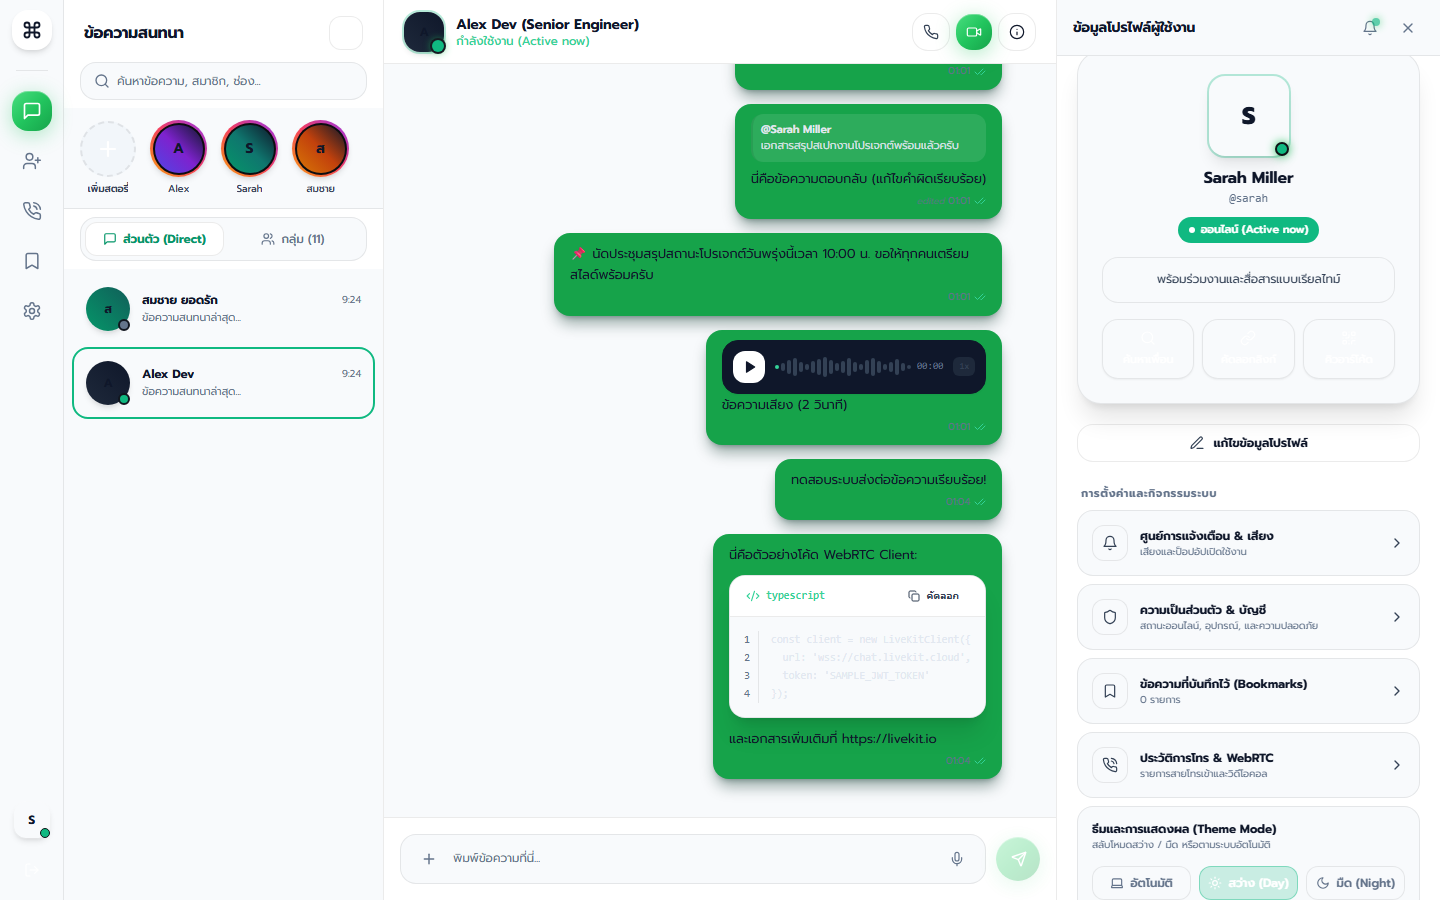
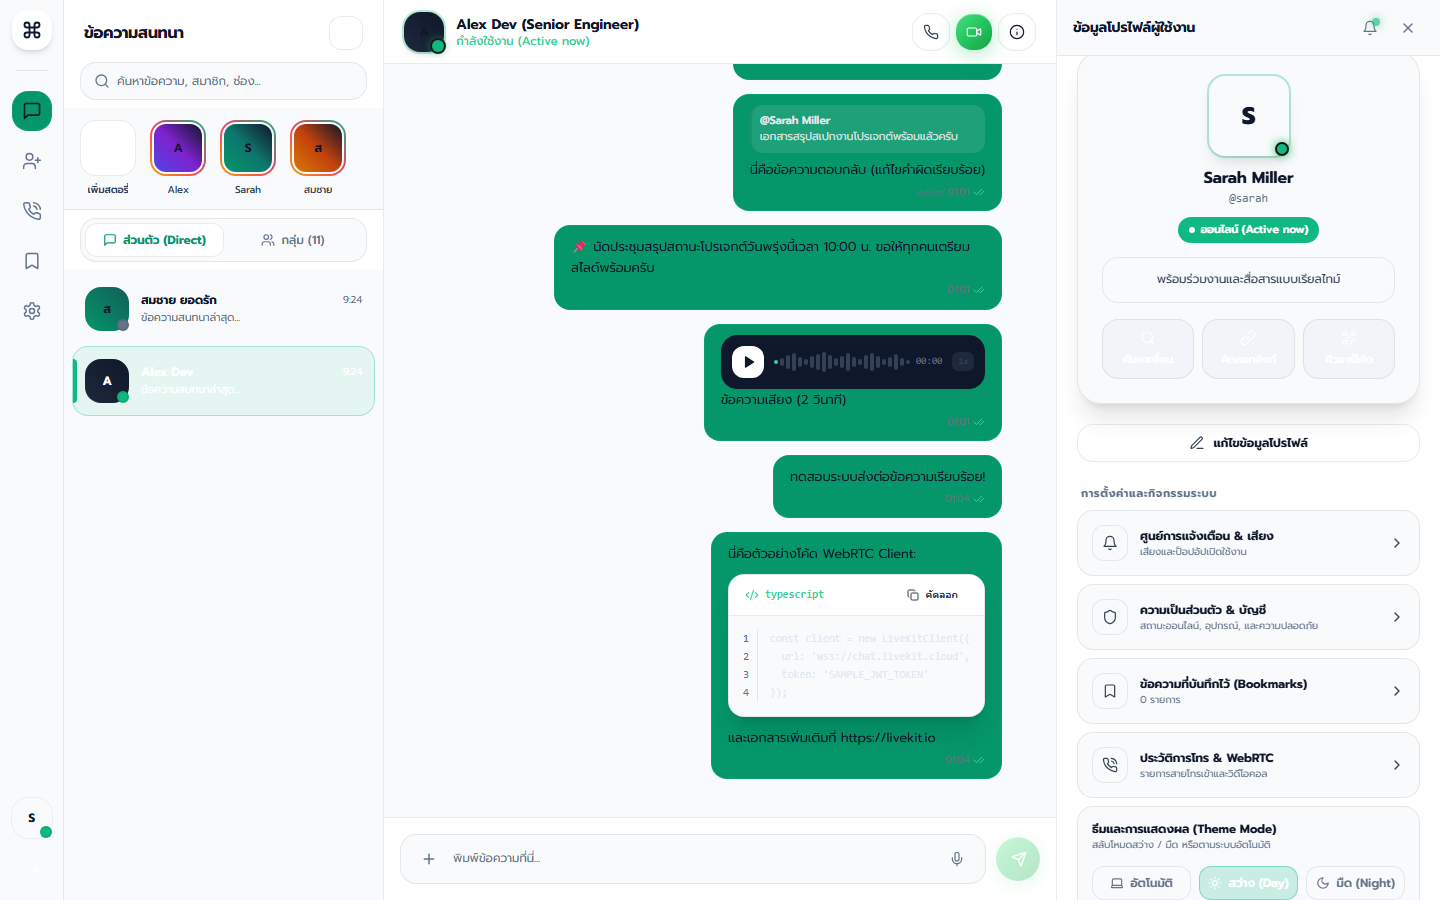
feat(design-system): enforce universal consistency across squircle geometry, hairline borders, and subtle accent indicators for all pages

diff --git a/components/layout/LeftSlimNav.tsx b/components/layout/LeftSlimNav.tsx
@@ -60,12 +60,12 @@ export const LeftSlimNav: React.FC<LeftSlimNavProps> = ({
           <button
             type="button"
             data-testid="nav-messages"
-            className="w-10 h-10 rounded-2xl emerald-button-gradient text-white flex items-center justify-center relative transition-all group shadow-md"
+            className="w-10 h-10 rounded-2xl bg-emerald-600 text-white flex items-center justify-center relative transition-all group shadow-xs border border-emerald-500/30"
             title="แชทข้อความ"
           >
             <MessageSquare className="w-5 h-5" strokeWidth={2} />
             {unreadCount > 0 && (
-              <span className="absolute -top-1.5 -right-1.5 min-w-[18px] h-[18px] px-1 rounded-full bg-rose-500 text-[10px] font-black text-white flex items-center justify-center ring-2 ring-[#0F1216] shadow-sm animate-pulse">
+              <span className="absolute -top-1.5 -right-1.5 min-w-[18px] h-[18px] px-1 rounded-full bg-rose-500 text-[10px] font-black text-white flex items-center justify-center ring-2 ring-white dark:ring-[#0F1216] shadow-xs animate-pulse">
                 {unreadCount}
               </span>
             )}
@@ -77,12 +77,12 @@ export const LeftSlimNav: React.FC<LeftSlimNavProps> = ({
               type="button"
               data-testid="open-add-friends-btn"
               onClick={onOpenAddFriends}
-              className="w-10 h-10 rounded-2xl text-slate-400 hover:text-white hover:bg-white/[0.06] flex items-center justify-center transition-all relative group"
+              className="w-10 h-10 rounded-2xl text-slate-500 hover:text-slate-900 dark:text-slate-400 dark:hover:text-white hover:bg-slate-100 dark:hover:bg-white/[0.06] flex items-center justify-center transition-all relative group"
               title="เพิ่มเพื่อน & คำขอเป็นเพื่อน"
             >
               <UserPlus className="w-5 h-5" strokeWidth={1.8} />
               {friendRequestsCount > 0 && (
-                <span className="absolute -top-1.5 -right-1.5 min-w-[18px] h-[18px] px-1 rounded-full bg-rose-500 text-[10px] font-black text-white flex items-center justify-center ring-2 ring-[#0F1216] shadow-sm">
+                <span className="absolute -top-1.5 -right-1.5 min-w-[18px] h-[18px] px-1 rounded-full bg-rose-500 text-[10px] font-black text-white flex items-center justify-center ring-2 ring-white dark:ring-[#0F1216] shadow-xs">
                   {friendRequestsCount}
                 </span>
               )}
@@ -95,15 +95,12 @@ export const LeftSlimNav: React.FC<LeftSlimNavProps> = ({
               type="button"
               data-testid="open-call-history-btn"
               onClick={onOpenCallHistory}
-              className="w-10 h-10 rounded-2xl text-slate-400 hover:text-white hover:bg-white/[0.06] flex items-center justify-center transition-all relative group"
+              className="w-10 h-10 rounded-2xl text-slate-500 hover:text-slate-900 dark:text-slate-400 dark:hover:text-white hover:bg-slate-100 dark:hover:bg-white/[0.06] flex items-center justify-center transition-all relative group"
               title="ประวัติการโทร & สายที่ไม่ได้รับ"
             >
               <PhoneCall className="w-5 h-5" strokeWidth={1.8} />
               {missedCallsCount > 0 && (
-                <span className="absolute -top-1 -right-1 w-2.5 h-2.5 rounded-full bg-rose-500 ring-2 ring-[#0F1216] animate-ping" />
-              )}
-              {missedCallsCount > 0 && (
-                <span className="absolute -top-1 -right-1 w-2.5 h-2.5 rounded-full bg-rose-500 ring-2 ring-[#0F1216]" />
+                <span className="absolute -top-1 -right-1 w-2.5 h-2.5 rounded-full bg-rose-500 ring-2 ring-white dark:ring-[#0F1216]" />
               )}
             </button>
           )}
@@ -114,24 +111,24 @@ export const LeftSlimNav: React.FC<LeftSlimNavProps> = ({
               type="button"
               data-testid="open-bookmarks-btn"
               onClick={onOpenBookmarks}
-              className="w-10 h-10 rounded-2xl text-slate-400 hover:text-white hover:bg-white/[0.06] flex items-center justify-center transition-all relative group"
-              title="ข้อความที่บันทึก"
+              className="w-10 h-10 rounded-2xl text-slate-500 hover:text-slate-900 dark:text-slate-400 dark:hover:text-white hover:bg-slate-100 dark:hover:bg-white/[0.06] flex items-center justify-center transition-all relative group"
+              title="ข้อความที่บันทึกไว้"
             >
               <Bookmark className="w-5 h-5" strokeWidth={1.8} />
               {bookmarkedCount > 0 && (
-                <span className="absolute -top-1 -right-1 w-2.5 h-2.5 rounded-full bg-emerald-400 ring-2 ring-[#0F1216]" />
+                <span className="absolute -top-1 -right-1 w-2 h-2 rounded-full bg-emerald-500 ring-2 ring-white dark:ring-[#0F1216]" />
               )}
             </button>
           )}
 
-          {/* Settings / Profile */}
+          {/* Settings */}
           {onOpenEditProfile && (
             <button
               type="button"
-              data-testid="open-edit-profile-btn"
+              data-testid="open-settings-btn"
               onClick={onOpenEditProfile}
-              className="w-10 h-10 rounded-2xl text-slate-400 hover:text-white hover:bg-white/[0.06] flex items-center justify-center transition-all"
-              title="ตั้งค่าโปรไฟล์"
+              className="w-10 h-10 rounded-2xl text-slate-500 hover:text-slate-900 dark:text-slate-400 dark:hover:text-white hover:bg-slate-100 dark:hover:bg-white/[0.06] flex items-center justify-center transition-all group"
+              title="การตั้งค่าระบบ"
             >
               <Settings className="w-5 h-5" strokeWidth={1.8} />
             </button>
@@ -148,14 +145,14 @@ export const LeftSlimNav: React.FC<LeftSlimNavProps> = ({
           title={`ตั้งค่าโปรไฟล์ (${currentUser.display_name})`}
         >
           <div
-            className={`w-9 h-9 rounded-xl bg-gradient-to-tr ${getAvatarColor(
+            className={`w-10 h-10 rounded-2xl bg-gradient-to-tr ${getAvatarColor(
               currentUser.username
-            )} flex items-center justify-center text-white text-xs font-bold shadow-md ring-1 ring-white/20 group-hover:ring-emerald-500 transition-all`}
+            )} flex items-center justify-center text-white text-xs font-bold shadow-xs ring-1 ring-black/5 dark:ring-white/10 group-hover:ring-emerald-500 transition-all`}
           >
             {currentUser.display_name.charAt(0).toUpperCase()}
           </div>
           <span
-            className={`absolute bottom-0 right-0 w-2.5 h-2.5 rounded-full border border-[#0F1216] ${
+            className={`absolute bottom-0 right-0 w-3 h-3 rounded-full border-2 border-white dark:border-[#0F1216] ${
               currentUser.status === "busy"
                 ? "bg-rose-500"
                 : currentUser.status === "away"

diff --git a/components/chat/UserSidebar.tsx b/components/chat/UserSidebar.tsx
@@ -214,20 +214,25 @@ export const UserSidebar: React.FC<UserSidebarProps> = ({
                   key={user.id}
                   data-testid={`contact-item-${user.username}`}
                   onClick={() => onSelectUser(user)}
-                  className={`w-full flex items-center gap-3 p-3 rounded-2xl transition-all text-left group ${
+                  className={`w-full flex items-center gap-3 p-2.5 sm:p-3 rounded-2xl transition-all text-left group relative ${
                     isSelected
-                      ? "bg-transparent border-2 border-emerald-500 text-slate-900 dark:text-white shadow-xs"
-                      : "hover:bg-slate-100 dark:hover:bg-white/5 text-slate-600 dark:text-slate-300 hover:text-slate-900 dark:hover:text-white border-2 border-transparent"
+                      ? "bg-emerald-500/[0.08] dark:bg-emerald-500/[0.12] border border-emerald-500/30 text-slate-900 dark:text-white shadow-xs"
+                      : "hover:bg-slate-100/80 dark:hover:bg-white/[0.04] text-slate-600 dark:text-slate-300 hover:text-slate-900 dark:hover:text-white border border-transparent"
                   }`}
                 >
+                  {/* Left Active Accent Pill Bar */}
+                  {isSelected && (
+                    <span className="absolute left-0 top-3 bottom-3 w-1 rounded-r-full bg-emerald-500" />
+                  )}
+
                   <div className="relative shrink-0">
                     <div
-                      className={`w-11 h-11 rounded-full bg-gradient-to-tr ${gradient} flex items-center justify-center text-white text-xs font-bold shadow-md ring-1 ring-white/20`}
+                      className={`w-11 h-11 rounded-2xl bg-gradient-to-tr ${gradient} flex items-center justify-center text-white text-xs font-bold shadow-xs`}
                     >
                       {user.display_name.charAt(0).toUpperCase()}
                     </div>
                     <span
-                      className={`absolute bottom-0 right-0 w-3 h-3 rounded-full border-2 border-[#12161F] ${getStatusDot(
+                      className={`absolute bottom-0 right-0 w-3 h-3 rounded-full border-2 border-white dark:border-[#161A22] ${getStatusDot(
                         user.status
                       )}`}
                     />
@@ -235,19 +240,19 @@ export const UserSidebar: React.FC<UserSidebarProps> = ({
 
                   <div className="flex-1 min-w-0">
                     <div className="flex items-center justify-between">
-                      <p className="text-xs font-bold text-white truncate">
+                      <p className="text-xs font-bold text-slate-900 dark:text-white truncate">
                         {user.display_name}
                       </p>
-                      <span className="text-[10px] text-slate-500 shrink-0 ml-1">
+                      <span className="text-[10px] text-slate-400 dark:text-slate-500 shrink-0 ml-1">
                         9:24
                       </span>
                     </div>
                     <div className="flex items-center justify-between mt-0.5">
-                      <p className="text-[11px] text-slate-400 truncate">
+                      <p className="text-[11px] text-slate-500 dark:text-slate-400 truncate">
                         ข้อความสนทนาล่าสุด...
                       </p>
                       {(unreadCounts[user.username] || 0) > 0 && (
-                        <span className="min-w-[18px] h-[18px] px-1 rounded-full bg-rose-500 text-[10px] font-black text-white flex items-center justify-center ring-2 ring-[#161A22] shrink-0 ml-1.5 animate-pulse">
+                        <span className="min-w-[18px] h-[18px] px-1 rounded-full bg-rose-500 text-[10px] font-black text-white flex items-center justify-center ring-2 ring-white dark:ring-[#161A22] shrink-0 ml-1.5 animate-pulse">
                           {unreadCounts[user.username]}
                         </span>
                       )}
@@ -267,15 +272,20 @@ export const UserSidebar: React.FC<UserSidebarProps> = ({
                   key={channel.id}
                   data-testid={`channel-item-${channel.id}`}
                   onClick={() => onSelectChannel(channel)}
-                  className={`w-full flex items-center gap-3 p-3 rounded-2xl transition-all text-left group ${
+                  className={`w-full flex items-center gap-3 p-2.5 sm:p-3 rounded-2xl transition-all text-left group relative ${
                     isSelected
-                      ? "bg-transparent border-2 border-emerald-500 text-slate-900 dark:text-white shadow-xs"
-                      : "hover:bg-slate-100 dark:hover:bg-white/5 text-slate-600 dark:text-slate-300 hover:text-slate-900 dark:hover:text-white border-2 border-transparent"
+                      ? "bg-emerald-500/[0.08] dark:bg-emerald-500/[0.12] border border-emerald-500/30 text-slate-900 dark:text-white shadow-xs"
+                      : "hover:bg-slate-100/80 dark:hover:bg-white/[0.04] text-slate-600 dark:text-slate-300 hover:text-slate-900 dark:hover:text-white border border-transparent"
                   }`}
                 >
-                  <div className="w-11 h-11 rounded-2xl bg-[#0B0D11] border border-white/10 flex items-center justify-center text-emerald-400 shrink-0">
+                  {/* Left Active Accent Pill Bar */}
+                  {isSelected && (
+                    <span className="absolute left-0 top-3 bottom-3 w-1 rounded-r-full bg-emerald-500" />
+                  )}
+
+                  <div className="w-11 h-11 rounded-2xl bg-slate-100 dark:bg-white/[0.06] border border-slate-200/80 dark:border-white/10 flex items-center justify-center text-emerald-600 dark:text-emerald-400 shrink-0">
                     {channel.is_private ? (
-                      <Lock className="w-4 h-4 text-amber-400" strokeWidth={2} />
+                      <Lock className="w-4 h-4 text-amber-500" strokeWidth={2} />
                     ) : (
                       <Hash className="w-5 h-5" strokeWidth={2} />
                     )}
@@ -283,14 +293,14 @@ export const UserSidebar: React.FC<UserSidebarProps> = ({
 
                   <div className="flex-1 min-w-0">
                     <div className="flex items-center justify-between">
-                      <p className="text-xs font-bold text-white truncate">
+                      <p className="text-xs font-bold text-slate-900 dark:text-white truncate">
                         #{channel.name}
                       </p>
-                      <span className="text-[10px] text-slate-500 shrink-0 ml-1">
+                      <span className="text-[10px] text-slate-400 dark:text-slate-500 shrink-0 ml-1">
                         1 นาที
                       </span>
                     </div>
-                    <p className="text-[11px] text-slate-400 truncate mt-0.5">
+                    <p className="text-[11px] text-slate-500 dark:text-slate-400 truncate mt-0.5">
                       {channel.description || "ช่องสนทนากลุ่ม"}
                     </p>
                   </div>

diff --git a/components/profile/InstagramProfileDrawer.tsx b/components/profile/InstagramProfileDrawer.tsx
@@ -253,31 +253,31 @@ export const InstagramProfileDrawer: React.FC<InstagramProfileDrawerProps> = ({
               {/* Button 1 (Left): Search & Add Friends */}
               <button
                 onClick={() => (onOpenAddFriends ? onOpenAddFriends() : setView("activity"))}
-                className="py-2.5 px-2 rounded-2xl bg-white/[0.05] hover:bg-emerald-500/15 border border-white/[0.08] hover:border-emerald-500/30 text-white text-xs font-medium transition-all flex flex-col items-center justify-center gap-1.5 group active:scale-95 shadow-sm"
+                className="py-2.5 px-2 rounded-2xl bg-slate-100 dark:bg-white/[0.05] hover:bg-emerald-500/10 dark:hover:bg-emerald-500/15 border border-slate-200/80 dark:border-white/[0.08] hover:border-emerald-500/30 text-slate-800 dark:text-white text-xs font-medium transition-all flex flex-col items-center justify-center gap-1.5 group active:scale-95 shadow-xs"
                 title="ค้นหาเพื่อนและแอดเพื่อน"
               >
-                <Search className="w-4 h-4 text-slate-300 group-hover:text-emerald-400 transition-colors" strokeWidth={1.8} />
-                <span className="text-[11px] text-slate-300 group-hover:text-white transition-colors">ค้นหาเพื่อน</span>
+                <Search className="w-4 h-4 text-slate-600 dark:text-slate-300 group-hover:text-emerald-500 transition-colors" strokeWidth={1.8} />
+                <span className="text-[11px] text-slate-700 dark:text-slate-300 group-hover:text-emerald-600 dark:group-hover:text-white transition-colors">ค้นหาเพื่อน</span>
               </button>
 
               {/* Button 2 (Center): Copy Profile Link */}
               <button
                 onClick={handleCopyProfileLink}
-                className="py-2.5 px-2 rounded-2xl bg-white/[0.05] hover:bg-emerald-500/15 border border-white/[0.08] hover:border-emerald-500/30 text-white text-xs font-medium transition-all flex flex-col items-center justify-center gap-1.5 group active:scale-95 shadow-sm"
+                className="py-2.5 px-2 rounded-2xl bg-slate-100 dark:bg-white/[0.05] hover:bg-emerald-500/10 dark:hover:bg-emerald-500/15 border border-slate-200/80 dark:border-white/[0.08] hover:border-emerald-500/30 text-slate-800 dark:text-white text-xs font-medium transition-all flex flex-col items-center justify-center gap-1.5 group active:scale-95 shadow-xs"
                 title="คัดลอกลิงก์โปรไฟล์"
               >
-                <LinkIcon className="w-4 h-4 text-slate-300 group-hover:text-emerald-400 transition-colors" strokeWidth={1.8} />
-                <span className="text-[11px] text-slate-300 group-hover:text-white transition-colors">คัดลอกลิงก์</span>
+                <LinkIcon className="w-4 h-4 text-slate-600 dark:text-slate-300 group-hover:text-emerald-500 transition-colors" strokeWidth={1.8} />
+                <span className="text-[11px] text-slate-700 dark:text-slate-300 group-hover:text-emerald-600 dark:group-hover:text-white transition-colors">คัดลอกลิงก์</span>
               </button>
 
               {/* Button 3 (Right): Personal QR Code */}
               <button
                 onClick={() => setView("qr_code")}
-                className="py-2.5 px-2 rounded-2xl bg-white/[0.05] hover:bg-emerald-500/15 border border-white/[0.08] hover:border-emerald-500/30 text-white text-xs font-medium transition-all flex flex-col items-center justify-center gap-1.5 group active:scale-95 shadow-sm"
+                className="py-2.5 px-2 rounded-2xl bg-slate-100 dark:bg-white/[0.05] hover:bg-emerald-500/10 dark:hover:bg-emerald-500/15 border border-slate-200/80 dark:border-white/[0.08] hover:border-emerald-500/30 text-slate-800 dark:text-white text-xs font-medium transition-all flex flex-col items-center justify-center gap-1.5 group active:scale-95 shadow-xs"
                 title="คิวอาร์โค้ดส่วนตัว"
               >
-                <QrCode className="w-4 h-4 text-slate-300 group-hover:text-emerald-400 transition-colors" strokeWidth={1.8} />
-                <span className="text-[11px] text-slate-300 group-hover:text-white transition-colors">คิวอาร์โค้ด</span>
+                <QrCode className="w-4 h-4 text-slate-600 dark:text-slate-300 group-hover:text-emerald-500 transition-colors" strokeWidth={1.8} />
+                <span className="text-[11px] text-slate-700 dark:text-slate-300 group-hover:text-emerald-600 dark:group-hover:text-white transition-colors">คิวอาร์โค้ด</span>
               </button>
             </div>
           </div>

diff --git a/components/story/StoryTray.tsx b/components/story/StoryTray.tsx
@@ -22,41 +22,42 @@ export const StoryTray: React.FC<StoryTrayProps> = ({
   return (
     <div
       data-testid="story-tray"
-      className="flex items-center gap-3.5 px-4 py-3 overflow-x-auto custom-scrollbar select-none bg-transparent border-b border-slate-200/80 dark:border-white/10 shrink-0"
+      className="flex items-center gap-3.5 px-4 py-3 overflow-x-auto custom-scrollbar select-none bg-transparent border-b border-slate-200/80 dark:border-white/[0.08] shrink-0"
     >
-      {/* 1. Add My Story Button (Clean Circle with Dark Charcoal Plus) */}
+      {/* 1. Add My Story Button (Ultra-Clean Squircle Button) */}
       <div
         onClick={onAddStory}
         data-testid="add-story-btn"
-        className="flex flex-col items-center gap-1 shrink-0 cursor-pointer group"
+        className="flex flex-col items-center gap-1.5 shrink-0 cursor-pointer group"
       >
-        <div className="w-13 h-13 sm:w-14 sm:h-14 rounded-full border-2 border-dashed border-slate-300 dark:border-white/20 bg-slate-100/90 dark:bg-white/[0.04] flex items-center justify-center text-slate-700 dark:text-slate-300 group-hover:border-emerald-500 group-hover:text-emerald-500 group-hover:bg-emerald-500/10 transition-all shadow-xs">
-          <Plus className="w-6 h-6 stroke-[2.2]" />
+        <div className="w-13 h-13 sm:w-14 sm:h-14 rounded-2xl border border-slate-200/90 dark:border-white/15 bg-white dark:bg-white/[0.04] flex items-center justify-center text-slate-700 dark:text-slate-200 group-hover:border-emerald-500 group-hover:text-emerald-500 group-hover:bg-emerald-500/10 transition-all shadow-xs">
+          <Plus className="w-5 h-5 stroke-[2.2]" />
         </div>
-        <span className="text-[10px] font-semibold text-slate-700 dark:text-slate-300 truncate max-w-[64px]">
+        <span className="text-[10px] font-semibold text-slate-600 dark:text-slate-300 truncate max-w-[64px]">
           เพิ่มสตอรี่
         </span>
       </div>
 
-      {/* 2. Friend Story Avatars with Instagram Colorful Gradient Ring */}
+      {/* 2. Friend Story Items with Unified Luxury Squircle Gradient Ring */}
       {stories.map((story, index) => (
         <div
           key={story.id}
           data-testid={`story-item-${story.id}`}
           onClick={() => onOpenStory(index)}
-          className="flex flex-col items-center gap-1 shrink-0 cursor-pointer group"
+          className="flex flex-col items-center gap-1.5 shrink-0 cursor-pointer group"
         >
-          {/* Instagram Gradient Ring */}
-          <div className="p-[2.5px] rounded-full bg-gradient-to-tr from-amber-500 via-rose-500 to-purple-600 shadow-md group-hover:scale-105 transition-transform">
-            <div className="p-[2px] rounded-full bg-[#0B0D11]">
+          <div className="p-[2px] rounded-2xl bg-gradient-to-tr from-amber-500 via-rose-500 to-emerald-500 shadow-xs group-hover:scale-105 transition-transform">
+            <div className="p-[2px] rounded-[14px] bg-white dark:bg-[#0F1216]">
               <div
-                className={`w-12 h-12 sm:w-13 sm:h-13 rounded-full bg-gradient-to-tr ${story.gradient} flex items-center justify-center text-white text-xs sm:text-sm font-bold`}
+                className={`w-12 h-12 rounded-xl bg-gradient-to-tr ${
+                  story.gradient || getAvatarColor(story.userName)
+                } flex items-center justify-center text-white text-xs font-bold shadow-xs`}
               >
                 {story.userName.charAt(0).toUpperCase()}
               </div>
             </div>
           </div>
-          <span className="text-[10px] font-medium text-slate-300 truncate max-w-[62px]">
+          <span className="text-[10px] font-medium text-slate-600 dark:text-slate-300 truncate max-w-[64px]">
             {story.userName.split(" ")[0]}
           </span>
         </div>

diff --git a/components/chat/MessageList.tsx b/components/chat/MessageList.tsx
@@ -212,9 +212,9 @@ export const MessageList: React.FC<MessageListProps> = ({
             {/* Receiver Avatar */}
             {!isMe && (
               <div
-                className={`w-7 h-7 rounded-xl bg-gradient-to-tr ${getAvatarColor(
+                className={`w-8 h-8 rounded-2xl bg-gradient-to-tr ${getAvatarColor(
                   selectedUser.username
-                )} flex items-center justify-center text-white text-[10px] font-bold shrink-0 mb-1 shadow-sm ring-1 ring-white/10`}
+                )} flex items-center justify-center text-white text-xs font-bold shrink-0 mb-1 shadow-xs ring-1 ring-black/5 dark:ring-white/10`}
               >
                 {selectedUser.display_name.charAt(0).toUpperCase()}
               </div>
@@ -226,10 +226,10 @@ export const MessageList: React.FC<MessageListProps> = ({
               <div
                 className={`px-4 py-2.5 rounded-2xl text-[13px] leading-relaxed relative ${
                   msg.is_deleted
-                    ? "bg-white/5 text-slate-500 italic border border-white/5"
+                    ? "bg-slate-100 dark:bg-white/5 text-slate-400 italic border border-slate-200 dark:border-white/5"
                     : isMe
-                    ? "bg-[#16A34A] text-white rounded-br-xs shadow-lg shadow-emerald-950/40"
-                    : "bg-[#1E232B] border border-white/[0.07] text-white rounded-bl-xs shadow-md"
+                    ? "bg-emerald-600 text-white rounded-br-xs shadow-xs border border-emerald-500/30"
+                    : "bg-white dark:bg-[#1E232B] border border-slate-200/90 dark:border-white/[0.08] text-slate-900 dark:text-white rounded-bl-xs shadow-xs"
                 }`}
               >
                 {/* Quoted Reply */}
